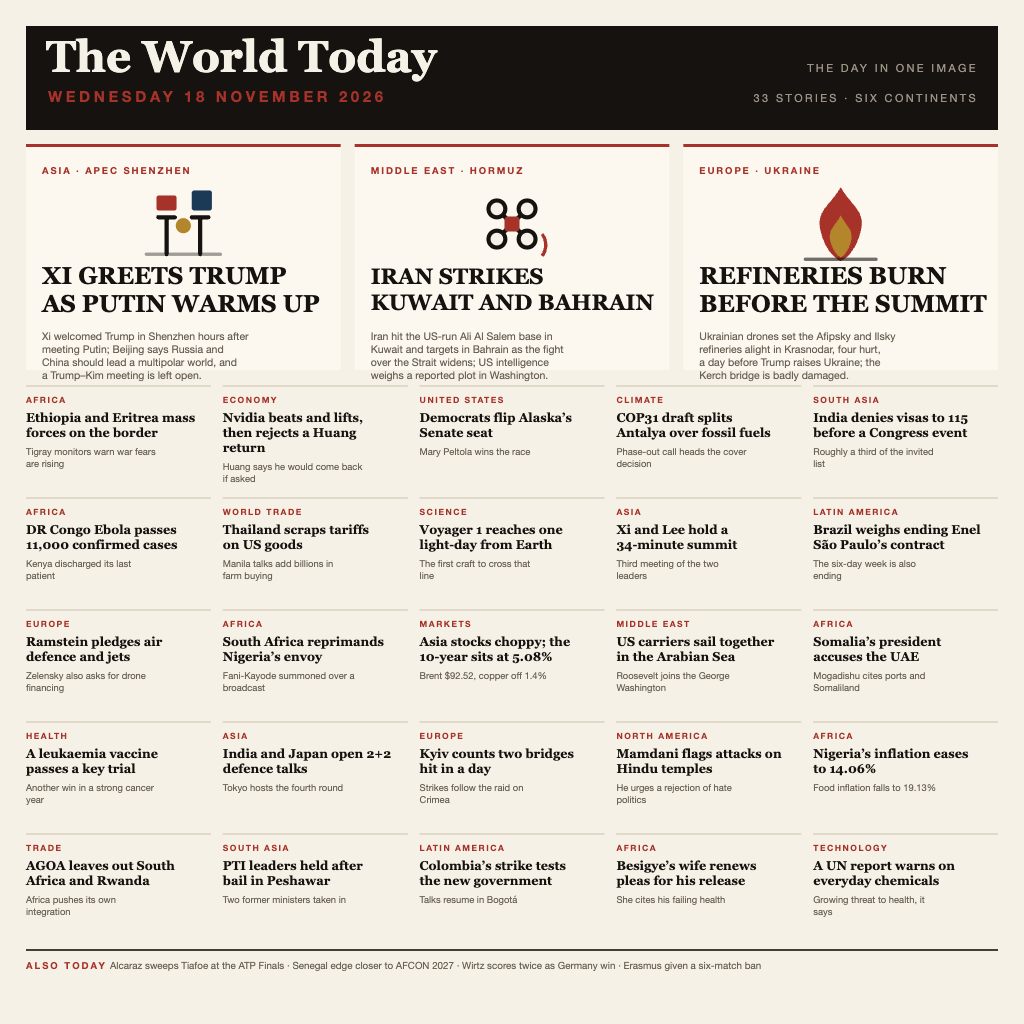
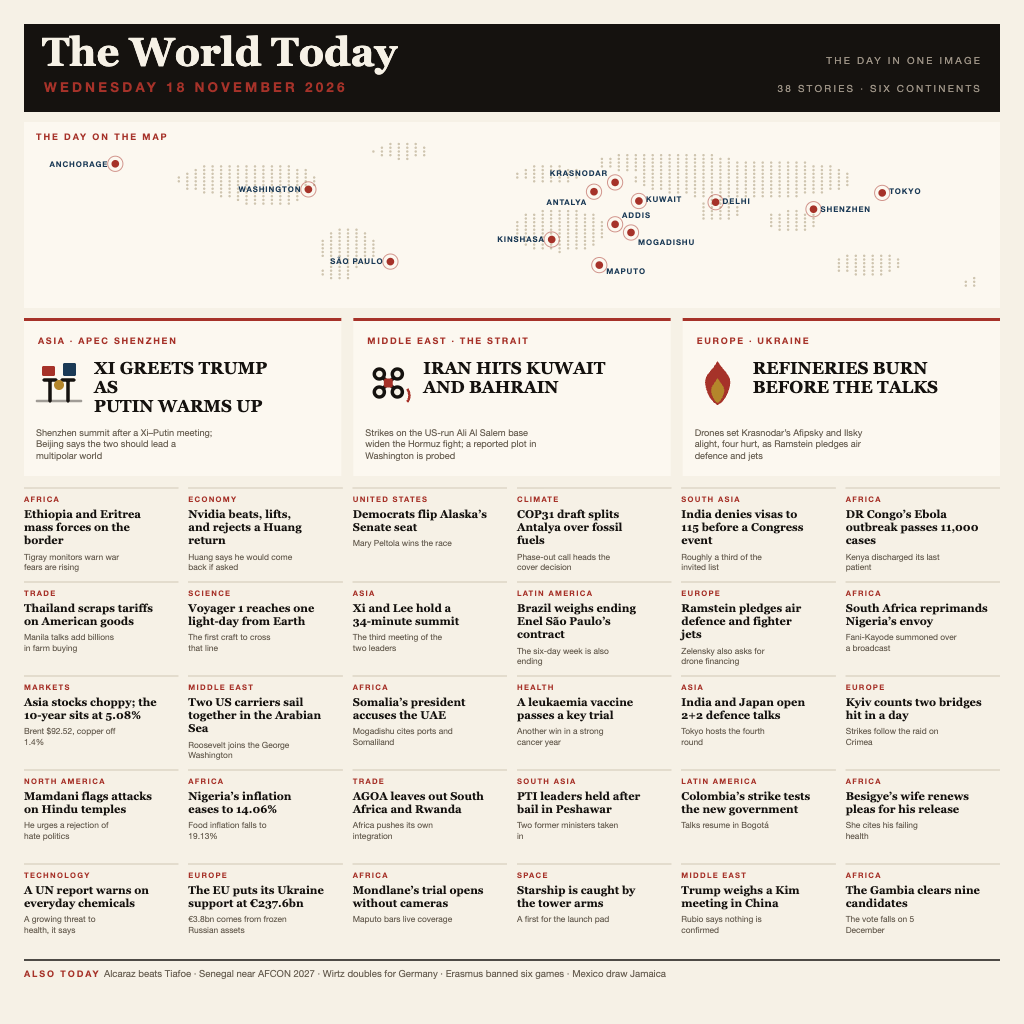
Add the world map and widen the page to 38 stories

Changed region(s): [[0.0, 0.0312, 1.0, 0.9688]]

diff --git a/README.md b/README.md
@@ -4,9 +4,9 @@
 [![rank](https://make.fun/badge/news-image-20261118/AuraFamerCode/news-2026-11-18/rank.svg)](https://make.fun/bounty/news-image-20261118/leaderboard)
 [![reward](https://make.fun/badge/news-image-20261118/AuraFamerCode/news-2026-11-18/reward.svg)](https://make.fun/bounty/news-image-20261118)
 
-One 1024×1024 front page summing up the world's news of Wednesday 18 November 2026: a dated masthead,
-three lead stories, twenty-five briefs in five columns, and a closing strip — thirty-three stories across
-six continents.
+One 1024×1024 front page summing up the world's news of Wednesday 18 November 2026: a dated masthead, a
+dotted world map carrying the day's thirteen datelines, three lead stories, thirty briefs in six columns,
+and a closing strip — thirty-eight stories across six continents.
 
 Leads: Xi Jinping greets Trump in Shenzhen hours after meeting Putin, with Beijing calling for Russia and
 China to lead a multipolar world; Iran strikes the US-run Ali Al Salem base in Kuwait and targets in
